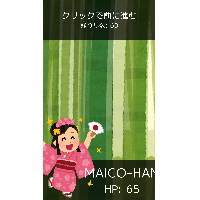
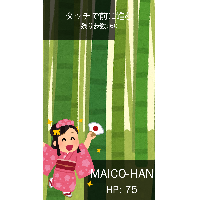
modified:   osyougatu/images/icon_thumbnail.png 	modified:   osyougatu/index.html 	modified:   osyougatu/js/files.js 	modified:   osyougatu/js/user.js 	modified:   osyougatu/js/user.js.map 	modified:   osyougatu/res.json 	new file:   osyougatu/sounds/tirin1.mp3

diff --git a/osyougatu/js/user.js b/osyougatu/js/user.js
@@ -726,8 +726,18 @@ Tonyu.klass.define({
         Tonyu.globals.$Screen.setBGColor("black");
         Tonyu.globals.$Screen.resize(1080,1920);
         Tonyu.globals.$sound.playBGM("$se_dinner",true);
-        Tonyu.globals.$plHP=65;
-        Tonyu.globals.$step=60;
+        if (Tonyu.globals.$continuePoint==_this.nil) {
+          Tonyu.globals.$continuePoint=false;
+          
+        }
+        Tonyu.globals.$plHP=75;
+        if (! Tonyu.globals.$continuePoint) {
+          Tonyu.globals.$step=60;
+          
+        } else {
+          Tonyu.globals.$step=30;
+          
+        }
         Tonyu.globals.$printSize=120;
         Tonyu.globals.$playerDamage=false;
         Tonyu.globals.$enemyDamage=false;
@@ -778,7 +788,7 @@ Tonyu.klass.define({
             _this.loadPage(Tonyu.classes.user.Ending);
             
           }
-          while (_this.enemySpawn<3) {
+          while (_this.enemySpawn<6) {
             Tonyu.checkLoop();
             if (Tonyu.globals.$touches[0].touched===1) {
               Tonyu.globals.$sound.playSE("$se_walk");
@@ -794,12 +804,21 @@ Tonyu.klass.define({
               _this.bg.zOrder=1;
               Tonyu.globals.$step-=1;
               if (Tonyu.globals.$step>0) {
-                _this.enemySpawn=_this.rnd(0,4);
+                _this.enemySpawn=_this.rnd(0,7);
                 
               } else {
                 _this.enemySpawn=1;
                 break;
                 
+                
+              }
+              if (! Tonyu.globals.$continuePoint) {
+                if (Tonyu.globals.$step<30) {
+                  Tonyu.globals.$sound.playSE(Tonyu.globals.$se_tirin1);
+                  new Tonyu.classes.user.DamageLabel({text: "チェックポイント到達！",x: Tonyu.globals.$screenWidth*0.5,y: Tonyu.globals.$screenHeight*0.5});
+                  Tonyu.globals.$continuePoint=true;
+                  
+                }
                 
               }
               
@@ -948,8 +967,18 @@ Tonyu.klass.define({
         Tonyu.globals.$Screen.setBGColor("black");
         Tonyu.globals.$Screen.resize(1080,1920);
         Tonyu.globals.$sound.playBGM("$se_dinner",true);
-        Tonyu.globals.$plHP=65;
-        Tonyu.globals.$step=60;
+        if (Tonyu.globals.$continuePoint==_this.nil) {
+          Tonyu.globals.$continuePoint=false;
+          
+        }
+        Tonyu.globals.$plHP=75;
+        if (! Tonyu.globals.$continuePoint) {
+          Tonyu.globals.$step=60;
+          
+        } else {
+          Tonyu.globals.$step=30;
+          
+        }
         Tonyu.globals.$printSize=120;
         Tonyu.globals.$playerDamage=false;
         Tonyu.globals.$enemyDamage=false;
@@ -1023,7 +1052,7 @@ Tonyu.klass.define({
             case 9     :
               
             case 10:
-              if (!(_this.enemySpawn<3)) { __pc=18    ; break; }
+              if (!(_this.enemySpawn<6)) { __pc=18    ; break; }
               if (!(Tonyu.globals.$touches[0].touched===1)) { __pc=16    ; break; }
               Tonyu.globals.$sound.playSE("$se_walk");
               _this.bg2=new Tonyu.classes.user.BG({zOrder: 2});
@@ -1043,7 +1072,7 @@ Tonyu.klass.define({
               Tonyu.globals.$step-=1;
               if (!(Tonyu.globals.$step>0)) { __pc=14    ; break; }
               {
-                _this.enemySpawn=_this.rnd(0,4);
+                _this.enemySpawn=_this.rnd(0,7);
               }
               __pc=15    ;break;
             case 14    :
@@ -1052,6 +1081,15 @@ Tonyu.klass.define({
               
             case 15    :
               
+              if (! Tonyu.globals.$continuePoint) {
+                if (Tonyu.globals.$step<30) {
+                  Tonyu.globals.$sound.playSE(Tonyu.globals.$se_tirin1);
+                  new Tonyu.classes.user.DamageLabel({text: "チェックポイント到達！",x: Tonyu.globals.$screenWidth*0.5,y: Tonyu.globals.$screenHeight*0.5});
+                  Tonyu.globals.$continuePoint=true;
+                  
+                }
+                
+              }
             case 16    :
               
               _this.fiber$update(_thread);
@@ -1245,7 +1283,7 @@ Tonyu.klass.define({
       __dummy: false
     };
   },
-  decls: {"methods":{"main":{"nowait":false}},"fields":{"enemySpawn":{},"enemyAttack":{},"slowMargin":{},"bg":{},"pl":{},"enemy":{},"guage":{},"plNameText":{},"plHPText":{},"helpText":{},"stepText":{},"fill1Width":{},"fill2Width":{},"panel":{},"bgPanel":{},"bg2":{},"step":{}}}
+  decls: {"methods":{"main":{"nowait":false}},"fields":{"nil":{},"enemySpawn":{},"enemyAttack":{},"slowMargin":{},"bg":{},"pl":{},"enemy":{},"guage":{},"plNameText":{},"plHPText":{},"helpText":{},"stepText":{},"fill1Width":{},"fill2Width":{},"panel":{},"bgPanel":{},"bg2":{},"step":{}}}
 });
 Tonyu.klass.define({
   fullName: 'user.Odoriko1',

diff --git a/osyougatu/js/files.js b/osyougatu/js/files.js
@@ -1,5 +1,5 @@
 function loadFiles(dir){
    if (WebSite.isNW) return;
-	dir.rel('res.json').obj({"images":[{"name":"$pat_base","url":"images/base.png","pwidth":32,"pheight":32},{"name":"$pat_sample","url":"images/Sample.png"},{"name":"$pat_neko","url":"images/neko.png","pwidth":32,"pheight":32},{"name":"$pat_mapchip","url":"images/mapchip.png","pwidth":32,"pheight":32},{"name":"$icon_thumbnail","pwidth":200,"pheight":200,"url":"images/icon_thumbnail.png"},{"type":"single","name":"$pat_dance_yorokobi_mai_woman","url":"images/dance_yorokobi_mai_woman.png"},{"type":"single","name":"$pat_bg_takeyabu","url":"images/bg_takeyabu.jpg"},{"type":"single","name":"$pat_animal_usagi_gray","url":"images/animal_usagi_gray.png"},{"type":"single","name":"$pat_usagi_pink","url":"images/usagi_pink.png"},{"type":"single","name":"$pat_ninjin_carrot","url":"images/ninjin_carrot.png"},{"type":"single","name":"$pat_riaru_usagi","url":"images/riaru_usagi.png"},{"type":"single","name":"$pat_black","url":"images/black.png"},{"type":"single","name":"$pat_red","url":"images/red.png"},{"type":"single","name":"$pat_white","url":"images/white.png"},{"type":"single","name":"$pat_en_lastboss","url":"images/en_lastboss.png"},{"type":"single","name":"$pat_kirakira5_tori","url":"images/kirakira5_tori.png"},{"type":"single","name":"$pat_atataka_normal_fujisan","url":"images/atataka_normal_fujisan.jpg"},{"type":"single","name":"$pat_dance_yorokobi_mai_man","url":"images/dance_yorokobi_mai_man.png"}],"sounds":[{"name":"$se_dinner","url":"sounds/dinner.mid"},{"name":"$se_walk","url":"sounds/walk.mp3"},{"name":"$se_spawn","url":"sounds/spawn.mp3"},{"name":"$se_collapse","url":"sounds/collapse.mp3"},{"name":"$se_en_attack","url":"sounds/en_attack.mp3"},{"name":"$se_damage","url":"sounds/damage.mp3"},{"name":"$se_utiotoshi","url":"sounds/utiotoshi.mp3"},{"name":"$se_k_71","url":"sounds/k_71.mid"},{"name":"$se_urafunk","url":"sounds/urafunk.mid"}]});
+	dir.rel('res.json').obj({"images":[{"name":"$pat_base","url":"images/base.png","pwidth":32,"pheight":32},{"name":"$pat_sample","url":"images/Sample.png"},{"name":"$pat_neko","url":"images/neko.png","pwidth":32,"pheight":32},{"name":"$pat_mapchip","url":"images/mapchip.png","pwidth":32,"pheight":32},{"name":"$icon_thumbnail","pwidth":200,"pheight":200,"url":"images/icon_thumbnail.png"},{"type":"single","name":"$pat_dance_yorokobi_mai_woman","url":"images/dance_yorokobi_mai_woman.png"},{"type":"single","name":"$pat_bg_takeyabu","url":"images/bg_takeyabu.jpg"},{"type":"single","name":"$pat_animal_usagi_gray","url":"images/animal_usagi_gray.png"},{"type":"single","name":"$pat_usagi_pink","url":"images/usagi_pink.png"},{"type":"single","name":"$pat_ninjin_carrot","url":"images/ninjin_carrot.png"},{"type":"single","name":"$pat_riaru_usagi","url":"images/riaru_usagi.png"},{"type":"single","name":"$pat_black","url":"images/black.png"},{"type":"single","name":"$pat_red","url":"images/red.png"},{"type":"single","name":"$pat_white","url":"images/white.png"},{"type":"single","name":"$pat_en_lastboss","url":"images/en_lastboss.png"},{"type":"single","name":"$pat_kirakira5_tori","url":"images/kirakira5_tori.png"},{"type":"single","name":"$pat_atataka_normal_fujisan","url":"images/atataka_normal_fujisan.jpg"},{"type":"single","name":"$pat_dance_yorokobi_mai_man","url":"images/dance_yorokobi_mai_man.png"}],"sounds":[{"name":"$se_dinner","url":"sounds/dinner.mid"},{"name":"$se_walk","url":"sounds/walk.mp3"},{"name":"$se_spawn","url":"sounds/spawn.mp3"},{"name":"$se_collapse","url":"sounds/collapse.mp3"},{"name":"$se_en_attack","url":"sounds/en_attack.mp3"},{"name":"$se_damage","url":"sounds/damage.mp3"},{"name":"$se_utiotoshi","url":"sounds/utiotoshi.mp3"},{"name":"$se_k_71","url":"sounds/k_71.mid"},{"name":"$se_urafunk","url":"sounds/urafunk.mid"},{"name":"$se_tirin1","url":"sounds/tirin1.mp3"}]});
 	dir.rel('options.json').obj({"compiler":{"namespace":"user","defaultSuperClass":"kernel.Actor","dependingProjects":[{"namespace":"kernel","url":"js/kernel.js"}]},"run":{"mainClass":"user.Title","bootClass":"kernel.Boot","globals":{"$defaultFPS":60,"$imageSmoothingDisabled":true,"$soundLoadAndDecode":false}},"plugins":{"PicoAudio":1,"jquery_ui":1},"kernelEditable":false,"language":"tonyu","version":1639557686041});
 }

diff --git a/osyougatu/index.html b/osyougatu/index.html
@@ -2,14 +2,14 @@
 <html><head>
 <title>Tonyu System 2</title>
 <script>WebSite_runType="multiHTML";</script>
-<script>tonyu_app_version="11115";</script>
+<script>tonyu_app_version="17055";</script>
 <meta http-equiv="Content-Type" content="text/html; charset=UTF-8">
 <meta name="mobile-web-app-capable" content="yes">
 <meta name="apple-mobile-web-app-capable" content="yes">
 <meta name="viewport" content="user-scalable=no">
 <script src="js/lib/jquery-1.12.1.js" type="text/javascript" data-nocat="true"></script>
-<script src="js/files.js?11115"></script>
-<script src="js/runScript2_concat.min.js?11115"></script>
+<script src="js/files.js?17055"></script>
+<script src="js/runScript2_concat.min.js?17055"></script>
 <script src="https://edit.tonyu.jp/js/runtime/detectUnsupported.js"></script>
 </head>
 <body><div id='splash' style='position:relative; height: 100%;'>
